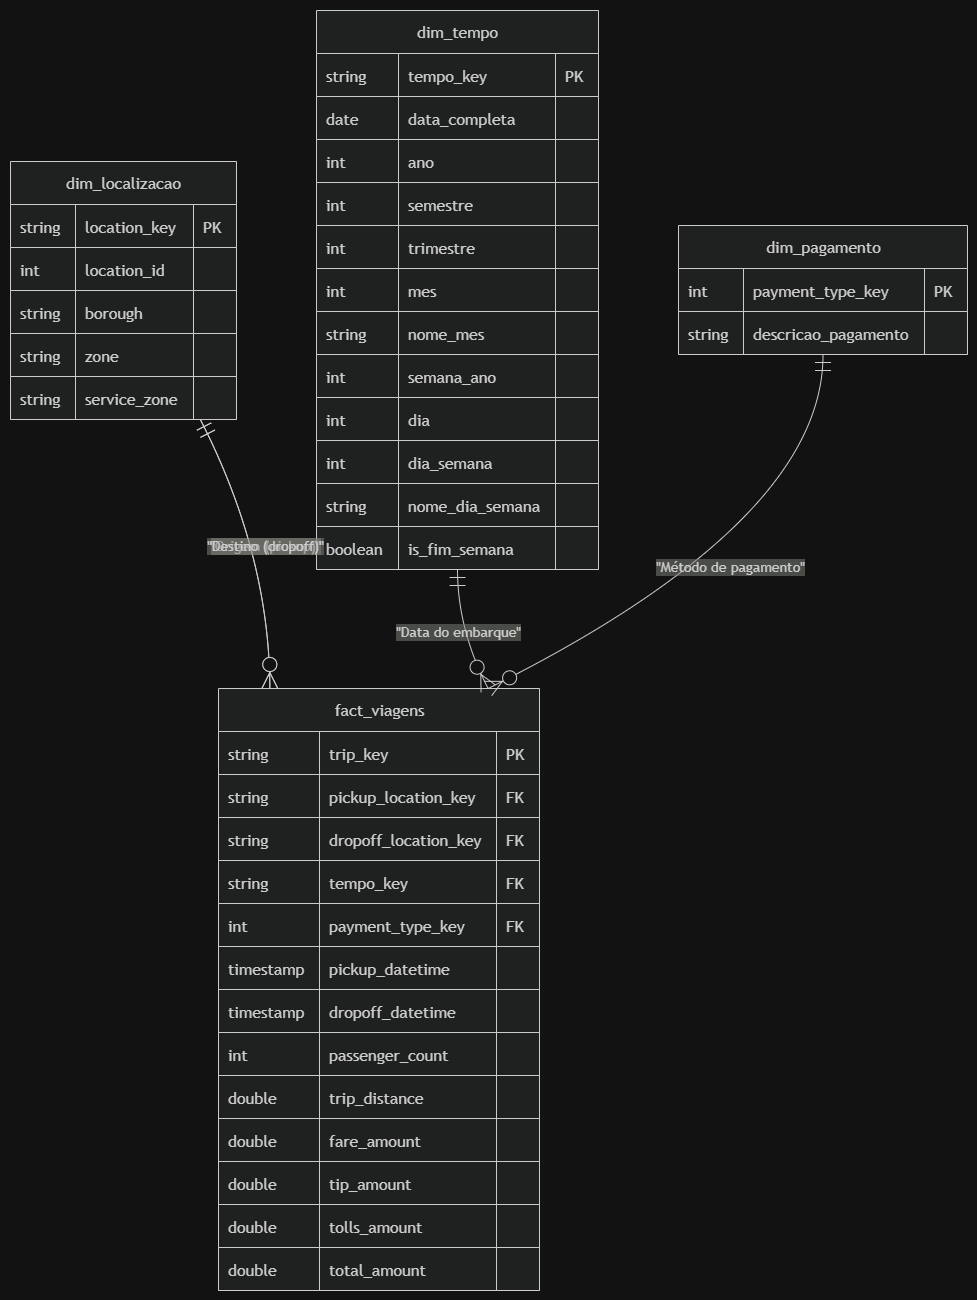
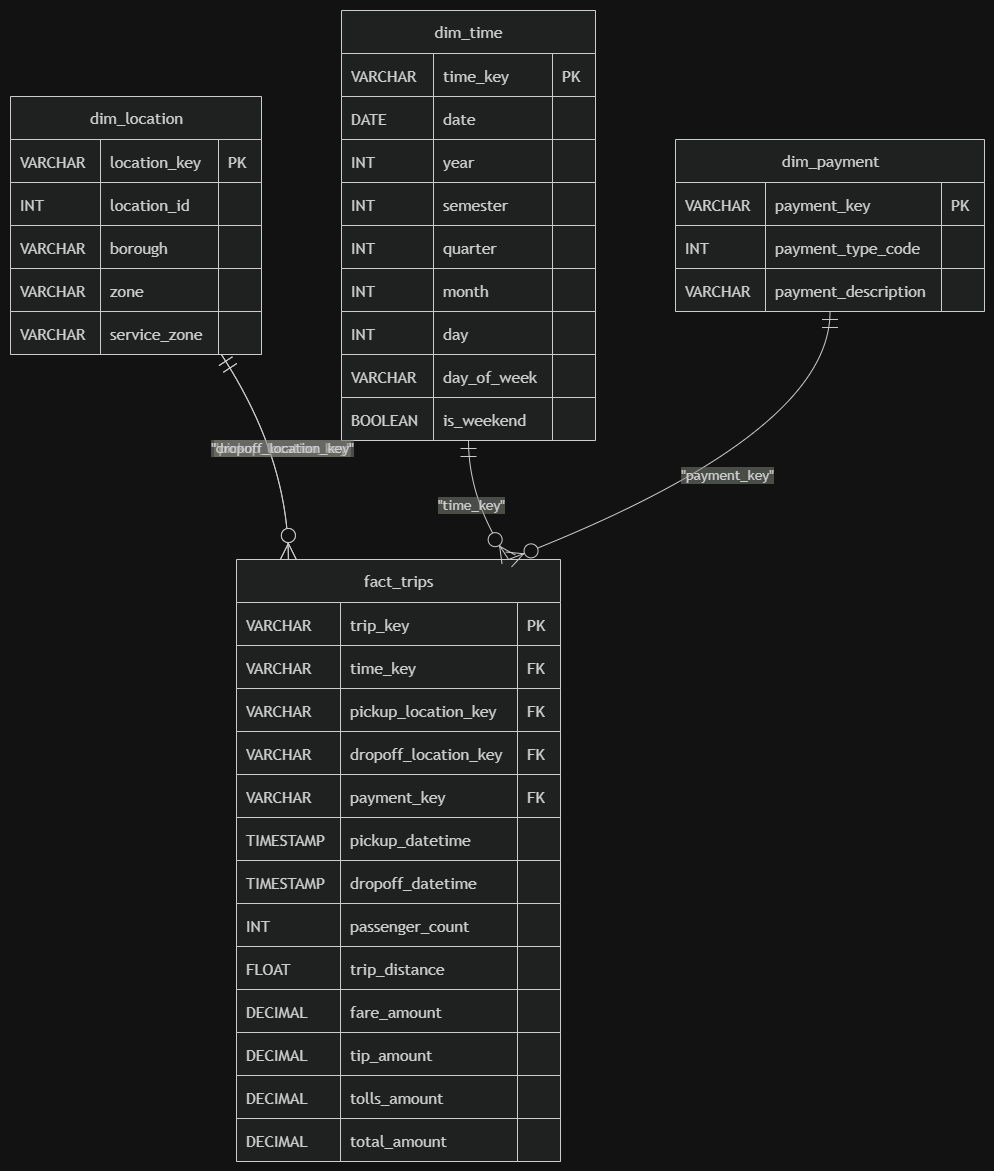
fix: padroniza nomenclatura do modelo dimensional e ajusta chaves naturais no ADR

diff --git a/docs/adrs/0002-star-schema-design.md b/docs/adrs/0002-star-schema-design.md
@@ -1,210 +1,191 @@
-# ADR 0002 — Desenho do Star Schema para o Pipeline LED Yellow Taxi NYC
+# ADR 0002 — Star Schema: Modelagem Física da Camada Dimensional
 
-## Status
+## Metadados
 
-Aceito
+| Campo | Valor |
+|---|---|
+| **Número** | ADR-0002 |
+| **Título** | Star Schema — Modelagem Física da Camada Dimensional |
+| **Status** | Aceito |
+| **Data** | 2026-07-21 |
+| **Projeto** | led-taxi-elt — LED UFPE (Vaga de Pesquisador) |
 
 ---
 
 ## Contexto
 
-O pipeline ELT do projeto LED/UFPE processa dados de corridas de táxi amarelo
-de Nova Iorque (janeiro de 2024, ~2,96 milhões de viagens) sobre DuckDB. A
-camada Staging (`stg_yellow_taxi`, `stg_zone_lookup`) entrega dados limpos e
-tipados com segurança via `TRY_CAST`. A próxima camada (Dimensional) deve
-suportar consultas analíticas por tempo, localização geográfica e modalidade
-de pagamento, com desempenho aceitável em ambiente DuckDB embarcado (arquivo
-único, sem cluster distribuído).
+O pipeline ELT `led-taxi-elt` processa ~2,96 milhões de corridas de táxi
+amarelo de Nova Iorque (janeiro de 2024) sobre DuckDB. Após as camadas Raw e
+Staging, a camada Dimensional deve suportar consultas OLAP por tempo,
+localização geográfica e modalidade de pagamento.
 
-A equipe avaliou dois esquemas de modelagem multidimensional:
+Uma revisão técnica (Sprint 4) identificou três falhas no modelo anterior:
 
-- **Star Schema** (Kimball): tabela fato central ligada diretamente a dimensões
-  desnormalizadas.
-- **Snowflake Schema**: dimensões normalizadas em hierarquias de subtabelas.
+1. **Inconsistência de nomenclatura** entre tabelas e campos (mistura de
+   português e inglês, ausência de padrão `snake_case`).
+2. **Chaves estrangeiras incompletas** — ausência de anotações `FK` explícitas
+   no diagrama Mermaid, impedindo rastreabilidade do grafo de dependências.
+3. **Dessincronia entre o diagrama Mermaid e o ADR** — campos presentes no
+   diagrama não apareciam no mapeamento de atributos e vice-versa.
+
+Este ADR documenta as decisões corretivas e define o esquema canônico de
+nomenclatura a ser seguido por todas as sprints subsequentes.
 
 ---
 
 ## Decisão
 
-Adoto **Star Schema** como modelo físico da camada dimensional.
+### (i) Granularidade atômica
 
-### Justificativa contra Snowflake Schema
+A tabela fato `fact_trips` possui granularidade atômica:
 
-O Snowflake Schema normaliza as dimensões em tabelas filhas (ex.:
-`dim_borough → dim_zone → dim_location`), reduzindo redundância de
-armazenamento. Essa vantagem é irrelevante neste contexto pelos seguintes
-motivos técnicos objetivos:
+> **Uma linha em `fact_trips` representa exatamente uma viagem de táxi amarelo
+> concluída, conforme registrada pelo sistema TPEP e entregue pela camada
+> Staging (`stg_yellow_taxi`).**
 
-1. **Volume de dimensões:** `dim_location` terá no máximo 265 linhas
-   (cardinalidade total de `raw_zone_lookup`). Normalizar 265 linhas em
-   subtabelas não produz economia mensurável de espaço em DuckDB.
-2. **Custo de JOINs em cadeia:** DuckDB é um motor OLAP colunar com execução
-   vetorizada; múltiplos JOINs em cadeia (hierarquia Snowflake) penalizam o
-   planejador de consultas mais do que a redundância de strings em dimensões
-   de baixa cardinalidade.
-3. **Legibilidade e manutenibilidade:** O Star Schema permite que consultas
-   analíticas finais (Sprint 7) sejam escritas com um único JOIN por dimensão,
-   reduzindo a complexidade cognitiva para o squad em formação.
-4. **Alinhamento metodológico:** A metodologia Kimball recomenda explicitamente
-   Star Schema como ponto de partida para data marts de pequeno e médio porte,
-   priorizando desempenho de leitura sobre economia de escrita.
+Não há pré-agregação. Cada corrida individual materializa uma linha na fato,
+preservando a capacidade analítica máxima e permitindo qualquer nível de
+roll-up posterior.
 
----
+### (ii) Padronização para inglês (`snake_case`)
 
-## Granularidade da Tabela Fato
+Todos os identificadores (tabelas, campos, chaves) são definidos em inglês,
+seguindo o dicionário de dados original da fonte TLC NYC. A consistência com a
+fonte elimina camadas de tradução que introduzem ambiguidade e dificulta a
+rastreabilidade de linhagem de dados.
 
-**Uma linha em `fct_trips` representa exatamente uma corrida de táxi amarelo
-registrada pelo sistema TPEP, tal como entregue pela camada Staging
-(`stg_yellow_taxi`), sem agregação ou deduplicação.**
+Esquema canônico de nomenclatura:
 
----
-
-## Mapeamento das Tabelas
-
-### Fato: `fct_trips`
-
-| Coluna | Tipo DuckDB | Origem (`stg_yellow_taxi`) | Descrição |
-|---|---|---|---|
-| `trip_sk` | VARCHAR | gerada via MD5 | Surrogate Key da viagem |
-| `date_sk` | VARCHAR | derivada de `pickup_datetime` | FK → `dim_date` |
-| `pickup_location_sk` | VARCHAR | derivada de `pickup_location_id` | FK → `dim_location` (papel: embarque) |
-| `dropoff_location_sk` | VARCHAR | derivada de `dropoff_location_id` | FK → `dim_location` (papel: desembarque) |
-| `payment_sk` | VARCHAR | derivada de `payment_type_code` | FK → `dim_payment` |
-| `vendor_id` | INTEGER | `vendor_id` | Identificador do fornecedor TPEP |
-| `ratecode_id` | INTEGER | `ratecode_id` | Código da tarifa |
-| `store_and_fwd_flag` | VARCHAR | `store_and_fwd_flag` | Flag de buffer de transmissão |
-| `passenger_count` | INTEGER | `passenger_count` | Quantidade de passageiros |
-| `trip_distance` | DOUBLE | `trip_distance` | Distância percorrida (milhas) |
-| `fare_amount` | DOUBLE | `fare_amount` | Tarifa base |
-| `extra_amount` | DOUBLE | `extra_amount` | Acréscimos extras |
-| `mta_tax_amount` | DOUBLE | `mta_tax_amount` | Imposto MTA |
-| `tip_amount` | DOUBLE | `tip_amount` | Gorjeta |
-| `tolls_amount` | DOUBLE | `tolls_amount` | Pedágios |
-| `improvement_surcharge_amount` | DOUBLE | `improvement_surcharge_amount` | Taxa de melhoria |
-| `congestion_surcharge_amount` | DOUBLE | `congestion_surcharge_amount` | Taxa de congestionamento |
-| `airport_fee_amount` | DOUBLE | `airport_fee_amount` | Taxa de aeroporto |
-| `total_amount` | DOUBLE | `total_amount` | Valor total cobrado |
-| `pickup_datetime` | TIMESTAMP | `pickup_datetime` | Data/hora de embarque (desnormalizada para cálculo de duração) |
-| `dropoff_datetime` | TIMESTAMP | `dropoff_datetime` | Data/hora de desembarque (desnormalizada para cálculo de duração) |
-
----
-
-### Dimensão: `dim_date`
-
-Gerada a partir das datas de embarque (`pickup_datetime`) presentes em
-`stg_yellow_taxi`. A ligação da fato com a dimensão de tempo se dá
-exclusivamente pela data de embarque. A data de desembarque é mantida
-desnormalizada na fato para cálculos de duração de viagem.
-
-| Coluna | Tipo DuckDB | Descrição |
+| Escopo | Padrão | Exemplos |
 |---|---|---|
-| `date_sk` | VARCHAR | Surrogate Key (MD5 da data no formato `YYYY-MM-DD`) |
-| `full_date` | DATE | Data completa |
-| `year` | INTEGER | Ano |
-| `month` | INTEGER | Mês (número) |
-| `month_name` | VARCHAR | Nome do mês (em inglês, conforme padrão TLC) |
-| `day` | INTEGER | Dia do mês |
-| `day_of_week` | INTEGER | Dia da semana (0 = domingo, conforme `DAYOFWEEK()` do DuckDB) |
-| `day_name` | VARCHAR | Nome do dia da semana |
-| `week_of_year` | INTEGER | Semana ISO do ano |
-| `is_weekend` | BOOLEAN | Verdadeiro se sábado ou domingo |
+| Tabelas | `snake_case` em inglês | `fact_trips`, `dim_time`, `dim_location`, `dim_payment` |
+| Chaves primárias | `<entidade>_key` | `trip_key`, `time_key`, `location_key`, `payment_key` |
+| Chaves estrangeiras (contextualizadas) | `<contexto>_<dimensao>_key` | `pickup_location_key`, `dropoff_location_key` |
+| Medidas | substantivo descritivo | `fare_amount`, `trip_distance`, `tip_amount` |
 
----
+### (iii) Surrogate Keys via hash MD5
 
-### Dimensão: `dim_location` — Role-Playing (embarque e desembarque)
+Todas as chaves primárias das dimensões e da fato são Surrogate Keys geradas
+por `MD5()` sobre a chave natural da entidade. Esse mecanismo garante:
 
-Uma única tabela física `dim_location` é referenciada duas vezes em
-`fct_trips` com foreign keys de papéis distintos:
+- **Idempotência**: a mesma entrada sempre produz o mesmo hash, tornando
+  reexecuções do pipeline seguras sem duplicação.
+- **Independência de sequência**: não há dependência de `AUTO_INCREMENT`,
+  `SEQUENCE` ou qualquer mecanismo de numeração sequencial nativo do banco,
+  o que é obrigatório no contexto DuckDB + ELT puro.
 
-- `pickup_location_sk` → papel de **embarque**
-- `dropoff_location_sk` → papel de **desembarque**
-
-Essa abordagem evita duplicação física dos dados de zona e é o padrão Kimball
-para dimensões reutilizadas com papéis diferentes. Se necessário para
-legibilidade em consultas analíticas, views nomeadas `dim_pickup_location` e
-`dim_dropoff_location` podem ser criadas como aliases sem custo de
-armazenamento adicional.
-
-| Coluna | Tipo DuckDB | Origem (`stg_zone_lookup`) | Descrição |
-|---|---|---|---|
-| `location_sk` | VARCHAR | gerada via MD5 | Surrogate Key da zona |
-| `location_id` | INTEGER | `location_id` | ID original da zona (NYC TLC) |
-| `borough` | VARCHAR | `borough` | Bairro/Borough |
-| `zone` | VARCHAR | `zone` | Nome da zona geográfica |
-| `service_zone` | VARCHAR | `service_zone` | Tipo de zona de serviço |
-
----
-
-### Dimensão: `dim_payment`
-
-Dimensão de baixa cardinalidade construída a partir do dicionário de dados
-NYC TLC. Contém os 7 tipos de pagamento definidos pelo dicionário oficial.
-
-| Coluna | Tipo DuckDB | Descrição |
-|---|---|---|
-| `payment_sk` | VARCHAR | Surrogate Key (MD5 do `payment_type_code`) |
-| `payment_type_code` | INTEGER | Código numérico do tipo de pagamento |
-| `payment_description` | VARCHAR | Descrição textual conforme dicionário TLC |
-
-Mapeamento do dicionário NYC TLC:
-
-| `payment_type_code` | `payment_description` |
-|---|---|
-| `0` | Flexível / Não informado |
-| `1` | Cartão de crédito |
-| `2` | Dinheiro |
-| `3` | Sem cobrança |
-| `4` | Disputa |
-| `5` | Desconhecido |
-| `6` | Viagem anulada |
-
----
-
-## Surrogate Keys via MD5
-
-Todas as dimensões e a tabela fato utilizam Surrogate Keys geradas por hash
-`MD5` sobre a chave natural de cada entidade. Essa abordagem garante
-**idempotência total na carga**: executar o script de carga múltiplas vezes
-produz o mesmo valor de SK para o mesmo input, sem necessidade de sequências
-ou mecanismos de auto-incremento externos — comportamento essencial em
-ambientes DuckDB sem suporte nativo a `SERIAL`/`IDENTITY` em contexto ELT.
-
-### Expressão SQL padrão adotada no projeto (DuckDB)
+Expressões SQL de referência (DuckDB):
 
 ```sql
--- SK de dimensão simples (chave natural de um único campo)
-MD5(CAST(location_id AS VARCHAR)) AS location_sk
+-- dim_time
+MD5(STRFTIME(CAST(pickup_datetime AS DATE), '%Y-%m-%d')) AS time_key
 
--- SK de dimensão de data
-MD5(STRFTIME(CAST(pickup_datetime AS DATE), '%Y-%m-%d')) AS date_sk
+-- dim_location
+MD5(CAST(location_id AS VARCHAR)) AS location_key
 
--- SK de tabela fato (chave composta — separador '|' previne colisões por concatenação)
+-- dim_payment
+MD5(CAST(payment_type_code AS VARCHAR)) AS payment_key
+
+-- fact_trips (chave composta com separador para evitar colisões)
 MD5(
-    CAST(pickup_datetime      AS VARCHAR) || '|' ||
-    CAST(dropoff_datetime     AS VARCHAR) || '|' ||
-    CAST(vendor_id            AS VARCHAR) || '|' ||
-    CAST(pickup_location_id   AS VARCHAR) || '|' ||
-    CAST(dropoff_location_id  AS VARCHAR)
-) AS trip_sk
+    CAST(pickup_datetime    AS VARCHAR) || '|' ||
+    CAST(dropoff_datetime   AS VARCHAR) || '|' ||
+    CAST(vendor_id          AS VARCHAR) || '|' ||
+    CAST(pickup_location_id AS VARCHAR) || '|' ||
+    CAST(dropoff_location_id AS VARCHAR)
+) AS trip_key
 ```
 
-> **Nota sobre colisões:** MD5 produz hash de 128 bits (~3,4 × 10³⁸ valores
-> possíveis). Para ~2,96 milhões de viagens, a probabilidade de colisão é
-> desprezível (~2,56 × 10⁻²⁷). Se houver exigência de segurança criptográfica
-> futura, o DuckDB suporta `sha256()` com chaves de 256 bits, ao custo de
-> strings 2× maiores (64 vs. 32 caracteres hex).
+---
+
+## Mapeamento de Atributos
+
+### `fact_trips` — Tabela Fato
+
+| Campo | Tipo | Papel | Descrição |
+|---|---|---|---|
+| `trip_key` | `VARCHAR` | PK | Surrogate Key da viagem (MD5 composto) |
+| `time_key` | `VARCHAR` | FK → `dim_time` | Data de embarque |
+| `pickup_location_key` | `VARCHAR` | FK → `dim_location` | Localização de embarque (Role-Playing) |
+| `dropoff_location_key` | `VARCHAR` | FK → `dim_location` | Localização de desembarque (Role-Playing) |
+| `payment_key` | `VARCHAR` | FK → `dim_payment` | Método de pagamento |
+| `pickup_datetime` | `TIMESTAMP` | Atributo operacional | Data/hora de embarque |
+| `dropoff_datetime` | `TIMESTAMP` | Atributo operacional | Data/hora de desembarque |
+| `passenger_count` | `INT` | Medida semiaditiva | Número de passageiros |
+| `trip_distance` | `FLOAT` | Medida aditiva | Distância percorrida (milhas) |
+| `fare_amount` | `DECIMAL` | Medida aditiva | Tarifa base |
+| `tip_amount` | `DECIMAL` | Medida aditiva | Gorjeta |
+| `tolls_amount` | `DECIMAL` | Medida aditiva | Pedágios |
+| `total_amount` | `DECIMAL` | Medida aditiva | Valor total cobrado |
+
+---
+
+### `dim_time` — Dimensão Tempo
+
+| Campo | Tipo | Descrição |
+|---|---|---|
+| `time_key` | `VARCHAR` | Surrogate Key (MD5 da data `YYYY-MM-DD`) |
+| `date` | `DATE` | Data completa |
+| `year` | `INT` | Ano |
+| `semester` | `INT` | Semestre (1 ou 2) |
+| `quarter` | `INT` | Trimestre (1–4) |
+| `month` | `INT` | Mês (1–12) |
+| `day` | `INT` | Dia do mês |
+| `day_of_week` | `VARCHAR` | Nome do dia da semana |
+| `is_weekend` | `BOOLEAN` | Verdadeiro se sábado ou domingo |
+
+Gerada a partir das datas de embarque (`pickup_datetime`) presentes em
+`stg_yellow_taxi`. A data de desembarque é mantida desnormalizada em
+`fact_trips` para cálculo de duração sem JOIN adicional.
+
+---
+
+### `dim_location` — Dimensão Localização (Role-Playing)
+
+| Campo | Tipo | Descrição |
+|---|---|---|
+| `location_key` | `VARCHAR` | Surrogate Key (MD5 de `location_id`) |
+| `location_id` | `INT` | Chave natural — ID de zona TLC NYC |
+| `borough` | `VARCHAR` | Borough (ex.: Manhattan, Brooklyn) |
+| `zone` | `VARCHAR` | Nome da zona geográfica |
+| `service_zone` | `VARCHAR` | Tipo de zona de serviço |
+
+Uma única tabela física. Referenciada duas vezes por `fact_trips` com FKs de
+papéis distintos (`pickup_location_key` e `dropoff_location_key`). Máximo de
+265 linhas (cardinalidade total de `stg_zone_lookup`).
+
+---
+
+### `dim_payment` — Dimensão Pagamento
+
+| Campo | Tipo | Descrição |
+|---|---|---|
+| `payment_key` | `VARCHAR` | Surrogate Key (MD5 de `payment_type_code`) |
+| `payment_type_code` | `INT` | Código numérico — Natural Key (dicionário TLC) |
+| `payment_description` | `VARCHAR` | Descrição textual do método de pagamento |
+
+Dimensão de baixa cardinalidade (7 linhas). Construída a partir do dicionário
+oficial TLC NYC.
 
 ---
 
 ## Consequências
 
-### Trade-offs assumidos com a desnormalização (Star Schema)
+### Positivos
 
-| Aspecto | Impacto assumido |
+| Trade-off | Impacto |
 |---|---|
-| **Redundância de dados** | Strings de `borough` e `zone` repetidas em `dim_location` para cada localização distinta. Aceitável: no máximo 265 linhas na dimensão, impacto de armazenamento negligenciável. |
-| **Consistência na recarga** | Alterações nos dados de zona exigem recarga completa de `dim_location`. No contexto do projeto (carga única, dataset estático de janeiro/2024), isso não é uma limitação prática. |
-| **Desempenho de leitura** | JOINs diretos sem subtabelas intermediárias favorecem o planejador colunar vetorizado do DuckDB. Ganho esperado em consultas de agregação por zona e período temporal. |
-| **Role-Playing sem views de alias** | Sem views nomeadas por papel, ferramentas de consulta podem exibir `dim_location` com ambiguidade de papel (embarque vs. desembarque). Mitigável com `CREATE OR REPLACE VIEW` sem custo de armazenamento adicional. |
-| **SK por MD5** | MD5 não é criptograficamente seguro, mas é suficiente e idiomático para Surrogate Keys em data warehouses onde colisão de hash é evento de probabilidade desprezível. Alternativa `sha256()` disponível no DuckDB se necessário. |
-| **`pickup_datetime` e `dropoff_datetime` desnormalizadas na fato** | Viola a forma normal da modelagem dimensional pura, mas é prática Kimball aceita quando os timestamps são necessários para métricas de duração que não cabem em `dim_date`. |
+| Star Schema puro | JOINs diretos entre fato e dimensões sem hierarquias intermediárias; favorece o planejador colunar vetorizado do DuckDB |
+| Surrogate Keys por MD5 | Idempotência de carga garantida sem dependência de mecanismo sequencial externo |
+| Role-Playing em `dim_location` | Elimina duplicação física de dados de zona; uma única tabela de 265 linhas atende dois papéis distintos na fato |
+| Nomenclatura em inglês | Alinhamento direto com o dicionário de dados TLC NYC; elimina camada de tradução na rastreabilidade de linhagem |
+| Granularidade atômica | Preserva flexibilidade máxima para roll-up em qualquer dimensão sem perda de informação |
+
+### Negativos
+
+| Trade-off | Impacto assumido |
+|---|---|
+| Desnormalização de `dim_time` | `semester` e `quarter` são atributos derivados de `month`, introduzindo redundância calculada; aceitável em OLAP onde a leitura supera a escrita por ordens de magnitude |
+| Role-Playing sem views de alias | Sem views `dim_pickup_location` / `dim_dropoff_location`, ferramentas de consulta exibem `dim_location` com ambiguidade de papel; mitigável com `CREATE OR REPLACE VIEW` sem custo de armazenamento |
+| MD5 e colisões | Probabilidade de colisão desprezível (~2⁻⁶⁴) para ~2,96 milhões de viagens; MD5 não é criptograficamente seguro, mas é suficiente para Surrogate Keys em DW de pequeno e médio porte |
+| `pickup_datetime` e `dropoff_datetime` na fato | Viola a forma normal dimensional pura, mas é prática Kimball aceita quando os timestamps são necessários para métricas de duração que não cabem em `dim_time` |
